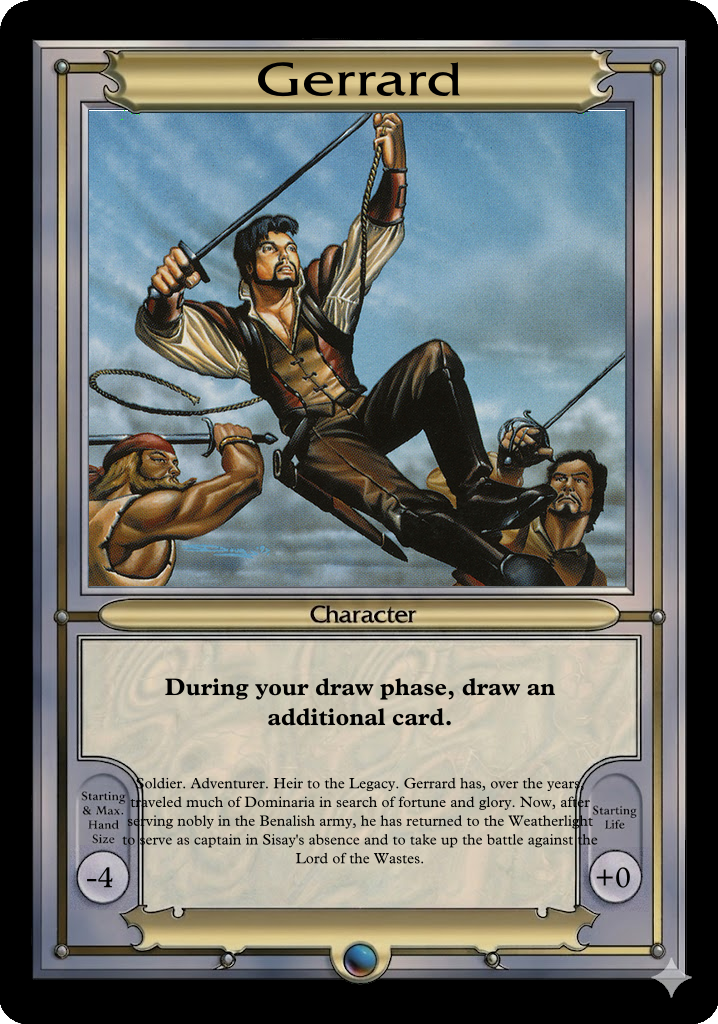
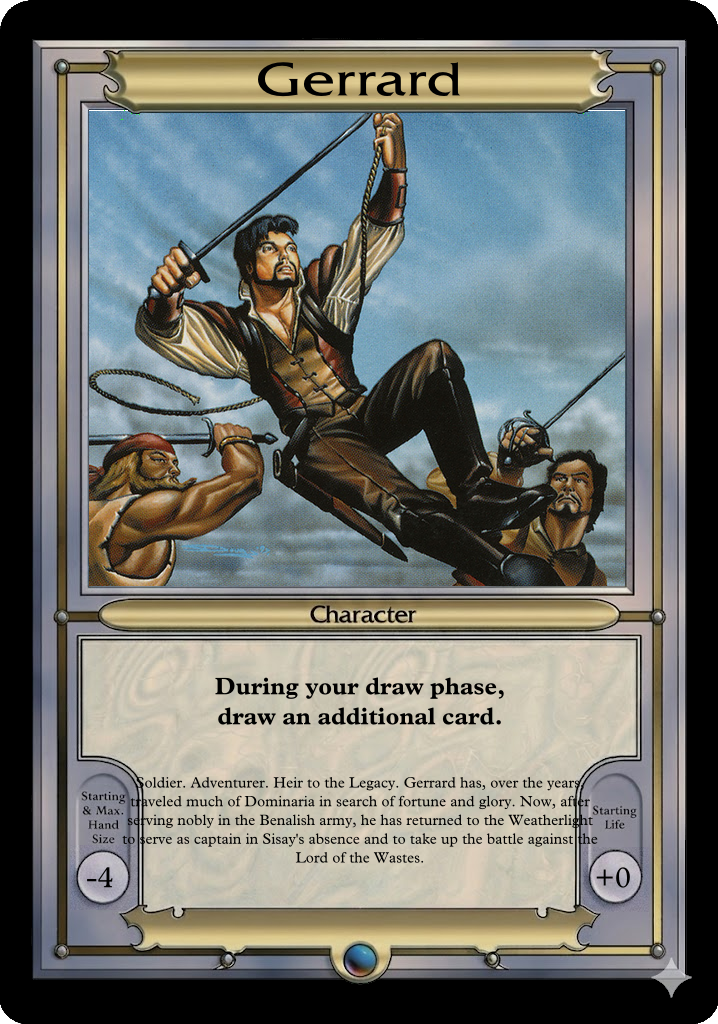
v0.3.0: dynamic rules placement, Volrath un-ignored, gallery updated
- Replace fixed quarter-centering with centering_height formula:
    offset = max(0, (centering_height - block_h) / 2)
  with rules_centering_height=126. Shorter texts sit lower, longer
  texts sit higher — matching original card layouts.
  Volrath rules F1: 3.6% -> 27.7%; avg rules F1: 22.0% -> 28.7%.
- Un-ignore test_volrath_rules (threshold 3%); mask confirmed valid.
- Add diff-first guidance to CLAUDE.md for diagnosing low F1 scores.
- Add Sidar Kondo to README gallery; fix Sliver Queen image reference.
- Document hard-break (\n) vs paragraph-break (\n\n) semantics in README.
- Regenerate all four example images with improved placement.
- Bump version to 0.3.0.

Changed region(s): [[0.1838, 0.75, 0.8273, 0.8438], [0.2145, 0.6562, 0.766, 0.7188]]

diff --git a/src/text.rs b/src/text.rs
@@ -396,6 +396,7 @@ pub fn draw_ability_text(
     font: &FontRef,
     flavor_font: &FontRef,
     para_gap: f32,
+    centering_height: f32,
     color: [u8; 3],
 ) {
     let (box_left, box_top, box_right, box_bottom) = text_box;
@@ -411,12 +412,10 @@ pub fn draw_ability_text(
 
     let ability_baseline_from_top = baseline_offset(font, fit.scale, fit.line_height);
 
-    // Vertically place text at 1/4 of the remaining space from the top.
-    // This naturally centers short texts lower and long texts higher,
-    // matching the original card layouts.
     let block_h = block_height(&fit.lines, fit.line_height, para_gap);
     let box_h = (box_bottom - box_top) as f32;
-    let mut y = box_top as f32 + (box_h - block_h) / 4.0;
+    let offset = ((centering_height - block_h) / 2.0).clamp(0.0, box_h - block_h);
+    let mut y = box_top as f32 + offset;
 
     // Draw ability lines
     draw_lines(

diff --git a/src/layout.rs b/src/layout.rs
@@ -27,6 +27,12 @@ pub struct Layout {
     /// Line-height multiplier for ability text (line_height = font_size × factor).
     /// 1.0 = tight, 1.25 = standard, higher values add more breathing room.
     pub line_height_factor: f32,
+    /// Effective height (px) of the centering region for ability text, measured
+    /// from box_top. The text block is centered within this region:
+    ///   offset = max(0, (centering_height - block_h) / 2)
+    /// Shorter texts land lower; longer texts land higher — matching original
+    /// Vanguard card layouts.
+    pub rules_centering_height: f32,
     /// Stats font size (points)
     pub stats_size: f32,
 }
@@ -46,5 +52,6 @@ pub const DEFAULT: Layout = Layout {
     name_scale: (71.0, 57.0),
     name_max_width: 460.0,
     line_height_factor: 1.25,
+    rules_centering_height: 126.0,
     stats_size: 30.0,
 };

diff --git a/tests/render_tests.rs b/tests/render_tests.rs
@@ -106,6 +106,7 @@ fn render_rules(yaml_path: &str) -> RgbaImage {
         &body_bold_font,
         &body_font,
         layout.para_gap,
+        layout.rules_centering_height,
         [0, 0, 0],
     );
     flatten_alpha(&mut canvas);
@@ -721,14 +722,13 @@ fn test_volrath_title() {
 }
 
 #[test]
-#[ignore = "volrath_rules_mask.png appears incorrect — F1 stuck at ~3% regardless of text; needs visual inspection"]
 fn test_volrath_rules() {
     run_test(
         "Volrath rules",
         &render_rules("tests/volrath.yaml"),
         "tests/fixtures/volrath_rules_mask.png",
         "volrath_rules",
-        0.20,
+        0.03,
     );
 }
 

diff --git a/src/render.rs b/src/render.rs
@@ -231,6 +231,7 @@ pub fn render_card(
         body_bold_font,
         stats_font,
         layout.para_gap,
+        layout.rules_centering_height,
         [0, 0, 0],
     );
 

diff --git a/README.md b/README.md
@@ -6,7 +6,7 @@ A command-line tool for creating custom Magic: The Gathering Vanguard cards. Def
 Create a vanguard specification file in YAML (gerrard.yaml).
 ```yaml
 name: "Gerrard"
-ability: "During your draw phase, draw an additional card."
+ability: "During your draw phase,\ndraw an additional card."
 flavor: "Soldier. Adventurer. Heir to the Legacy. Gerrard has, over the years, traveled much of Dominaria in search of fortune and glory. Now, after serving nobly in the Benalish army, he has returned to the Weatherlight to serve as captain in Sisay's absence and to take up the battle against the Lord of the Wastes."
 hand: "-4"
 life: "+0"
@@ -117,17 +117,18 @@ Use `{X}` notation in ability text. Supported symbols:
 
 Symbols are rendered inline at the correct size and baseline.
 
-### Paragraph Breaks
+### Line Breaks and Paragraph Breaks
 
-Separate distinct abilities with a newline in the YAML. Use `|-` (literal block scalar) for multi-paragraph text:
+A single `\n` in ability text is a **hard line break** — the text continues on the next line with normal line spacing, as if word-wrap had broken there. Use this to force a specific break point without adding extra space.
+
+A blank line (`\n\n`) is a **paragraph break** — produces a visible gap between ability blocks. Use `|-` (literal block scalar) in YAML for multi-paragraph text:
 
 ```yaml
 ability: |-
   First ability text.
+
   {2}{G}: Second ability text.
 ```
-
-This produces a visible gap between the two ability blocks on the rendered card.
 
 ## Assets
 
@@ -145,7 +146,12 @@ Side-by-side comparisons of `vgc`-rendered cards (left) versus original Wizards 
 ### Sliver Queen, Brood Mother
 | Rendered | Original |
 |:---:|:---:|
-| ![Sliver Queen rendered](assets/examples/sliver.png) | ![Sliver Queen original](assets/examples/sliver_org.png) |
+| ![Sliver Queen rendered](assets/examples/silverqueen.png) | ![Sliver Queen original](assets/examples/sliver_org.png) |
+
+### Sidar Kondo
+| Rendered |
+|:---:|
+| ![Sidar Kondo rendered](assets/examples/sidar.png) |
 
 ### Volrath
 | Rendered | Original |

diff --git a/CLAUDE.md b/CLAUDE.md
@@ -19,7 +19,9 @@ The method (implemented in `tests/render_tests.rs`):
 
 **The test helpers MUST always call the same `text::*` functions, with the same arguments, as `render::render_card` does.** If the production render path changes, the corresponding test helper must be updated in the same commit. Tests that call different functions or use different parameters do not validate the actual output.
 
-Run with `UPDATE_FIXTURES=1 cargo test -- --nocapture` to save rendered images and diff maps to `tests/fixtures/` for visual inspection. Always inspect the diffs to confirm the metric is seeing text and not background noise.
+Run with `UPDATE_FIXTURES=1 cargo test -- --nocapture` to save rendered images and diff maps to `tests/fixtures/` for visual inspection.
+
+**When a test score seems unusually low (e.g. below 10%), always generate and inspect the diff image before drawing conclusions.** The diff (black = correct, red = missed, green = extra) immediately reveals whether the problem is a positional offset, wrong font, wrong line-breaking, or a bad mask. Do not attempt to diagnose low scores from band statistics alone — look at the diff first.
 
 ## Scryfall API
 
